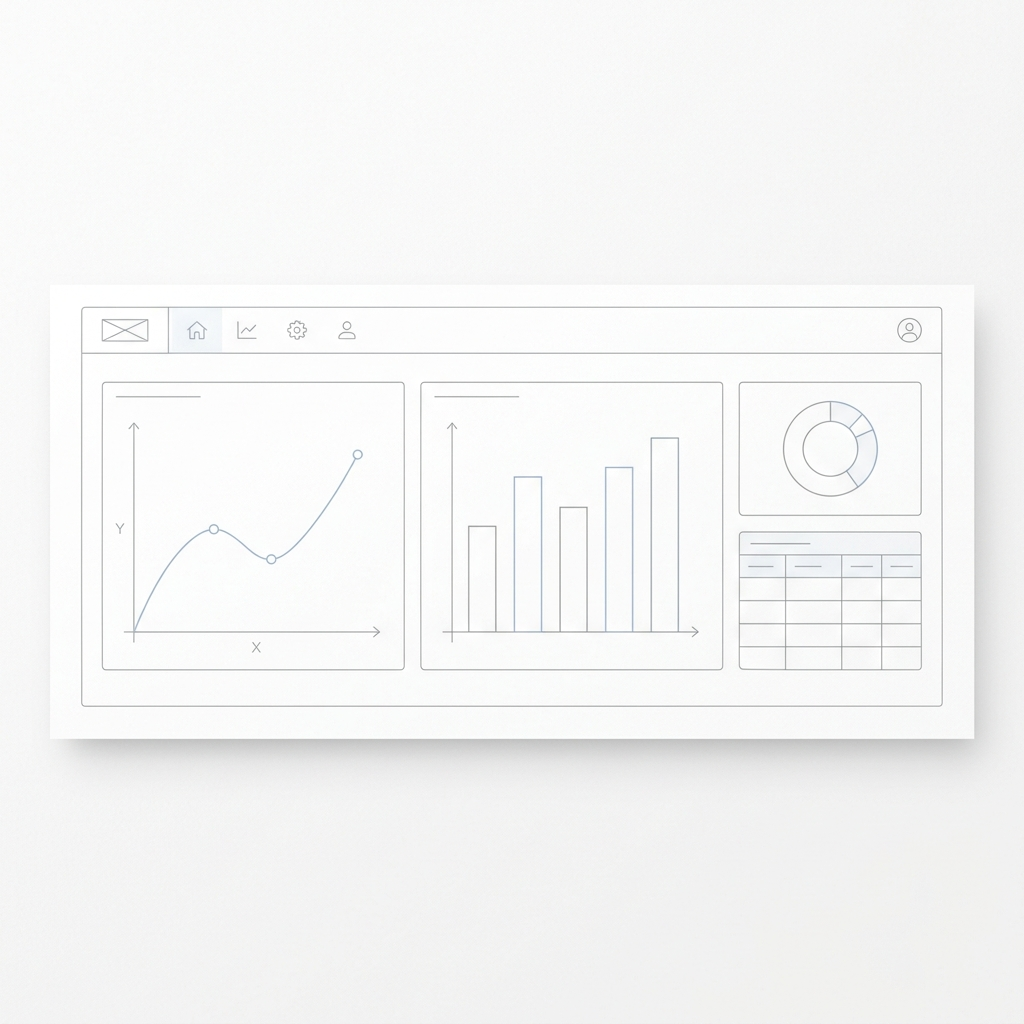
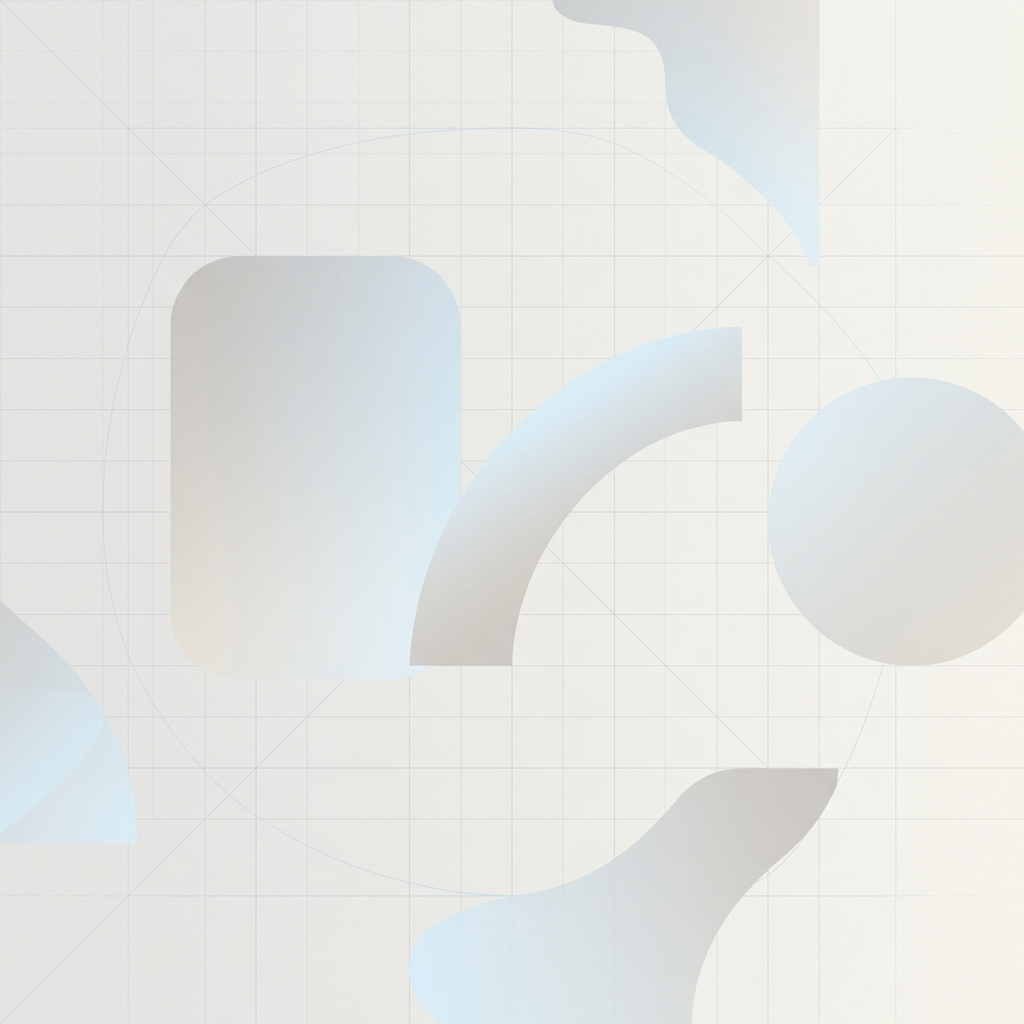
design: implement 4:3 aspect-ratio container and replace with premium abstract low-contrast placeholder graphic

diff --git a/site-draft/styles.css b/site-draft/styles.css
@@ -2293,6 +2293,7 @@ img { max-width: 100%; display: block; }
 }
 
 .feature-visual {
+  aspect-ratio: 4 / 3;
   border-radius: 14px;
   background: #fff;
   border: 1px solid var(--line);
@@ -2308,7 +2309,8 @@ img { max-width: 100%; display: block; }
 
 .feature-visual img {
   width: 100%;
-  height: auto;
+  height: 100%;
+  object-fit: cover;
   display: block;
 }
 